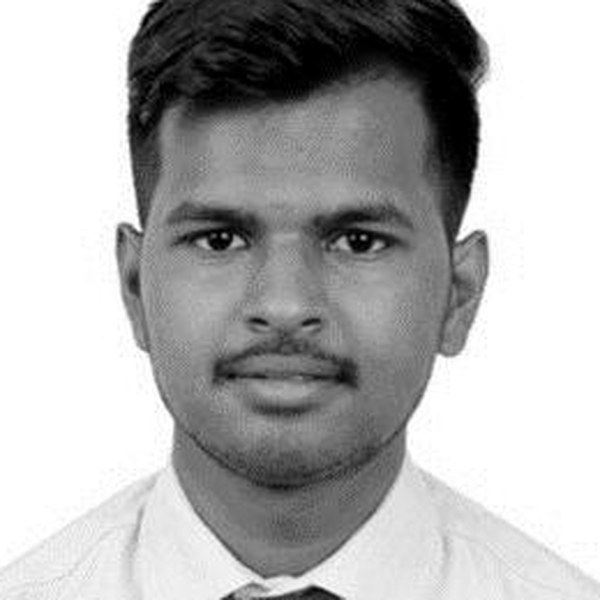
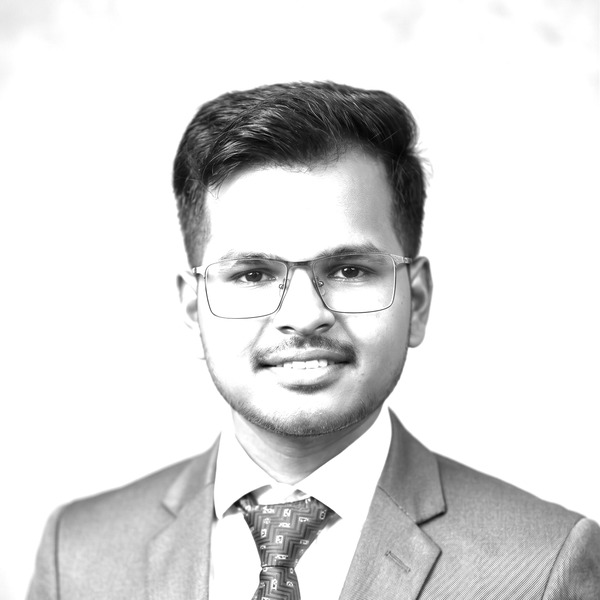
content(articles,team): home rotation + Rajat profile refresh
- Re-date articles so the home Insights grid shows one article each
  from Vijay Singh Rathore, Pravesh Goel, Ashish Gupta, Abhishek Gupta
  (top to bottom). Three Ashish articles shifted to 2026-05-20..22 so
  nothing leaks above slot 4.
- Rajat Singla: add shortBio + fullBio (forward-thinking CA, GST /
  Direct Tax / Controllership / Debt Sourcing). N C L S & Associates
  reference rewritten as Nucleus Advisors; US spellings normalised to
  UK to match site voice.
- Replace Rajat headshot — grayscaled, light-bg, square 600x600 to
  match Pravesh / Ashish partner-photo convention.

diff --git a/apps/web/src/content/articles.ts b/apps/web/src/content/articles.ts
@@ -1431,7 +1431,7 @@ export const articles: Article[] = [
       "The reframe: every item disclosed is a negotiation move. Time it deliberately, structure it by phase, and watch the buyer's behaviour change. Buyers who realise they're being managed through a structured disclosure usually respect the process. Buyers who don't realise it usually overpay relative to what they would have paid against an undisciplined seller. Either outcome is acceptable.",
     ].join('\n\n'),
     authorSlug: 'pravesh-goel',
-    publishedOn: '2026-05-17',
+    publishedOn: '2026-05-25',
     readMinutes: 10,
     tag: 'Deal mechanics',
     serviceSlugs: ['ma-advisory'],
@@ -2047,7 +2047,7 @@ export const articles: Article[] = [
       "The RBI's revised framework for NBFCs has raised the bar on what audit committees are expected to know. The gap between that expectation and what the current internal audit function is actually surfacing is where engagement starts. When we run an NBFC audit, the five areas above are where we begin, because in 13 years, they have never all been clean at once.",
     ].join('\n\n'),
     authorSlug: 'ashish-gupta',
-    publishedOn: '2026-05-25',
+    publishedOn: '2026-05-22',
     readMinutes: 9,
     tag: 'Internal audit & ICFR',
     serviceSlugs: ['risk-advisory'],
@@ -4034,7 +4034,7 @@ export const articles: Article[] = [
       "If your sector has inverted duty and you have ITC accumulated above ₹1 crore that has not been claimed, the time to start the file build is the month before the claim is filed, not the day before. The discipline pays for itself within the first claim cycle.",
     ].join('\n\n'),
     authorSlug: 'abhishek-gupta',
-    publishedOn: '2026-05-13',
+    publishedOn: '2026-05-23',
     readMinutes: 9,
     tag: 'GST',
     serviceSlugs: ['tax-regulatory'],
@@ -6077,7 +6077,7 @@ export const articles: Article[] = [
       "Both tactics work because both parties recognize that the asset is two assets, not one, and that the valuation has to acknowledge that structure.",
     ].join('\n\n'),
     authorSlug: 'vijay-singh-rathore',
-    publishedOn: '2026-05-17',
+    publishedOn: '2026-05-26',
     readMinutes: 11,
     tag: 'Valuation methods',
     serviceSlugs: ['valuations'],
@@ -9230,7 +9230,7 @@ export const articles: Article[] = [
       "The future internal auditor is unlikely to spend less time thinking. They are likely to spend less time collecting evidence and far more time interpreting what the evidence actually means.",
     ].join('\n\n'),
     authorSlug: 'ashish-gupta',
-    publishedOn: '2026-05-26',
+    publishedOn: '2026-05-24',
     readMinutes: 11,
     tag: 'Internal audit & ICFR',
     serviceSlugs: ['risk-advisory'],
@@ -9291,7 +9291,7 @@ export const articles: Article[] = [
       "The most important concurrent audit observation is often not the largest exception in the report. It is the small behavioural pattern that appears repeatedly across accounts, officers, or reporting cycles. That is usually where branch risk begins.",
     ].join('\n\n'),
     authorSlug: 'ashish-gupta',
-    publishedOn: '2026-05-23',
+    publishedOn: '2026-05-21',
     readMinutes: 11,
     tag: 'Sector risk',
     serviceSlugs: ['risk-advisory'],
@@ -9362,7 +9362,7 @@ export const articles: Article[] = [
       "Most NBFC operational failures do not occur because the organisation lacked policies. They occur because the actual branch behaviour slowly drifted away from those policies over time — and nobody independently tested the drift early enough.",
     ].join('\n\n'),
     authorSlug: 'ashish-gupta',
-    publishedOn: '2026-05-22',
+    publishedOn: '2026-05-20',
     readMinutes: 11,
     tag: 'Internal audit & ICFR',
     serviceSlugs: ['risk-advisory'],

diff --git a/apps/web/src/content/team.ts b/apps/web/src/content/team.ts
@@ -287,6 +287,12 @@ export const team: TeamMember[] = [
     expertise: ['GST', 'Direct Tax', 'Controllership', 'Debt Sourcing'],
     experienceYears: 3,
     qualifications: ['Chartered Accountant'],
+    shortBio:
+      'Leads GST, Direct Tax, Controllership and Debt Sourcing at Nucleus. GST advisory and litigation, tax assessments, MIS reporting, and working-capital / term-loan facilitation.',
+    fullBio: [
+      'Rajat Singla is a forward-thinking Chartered Accountant and Partner at Nucleus Advisors, leading the firm’s GST, Direct Tax, Controllership, and Debt Sourcing practice areas. He specialises in GST advisory, litigation, refunds, compliance management, departmental representations, and resolution of GST notices, while also providing strategic guidance in Income Tax, TDS, tax audits, assessments, and regulatory compliance for businesses and individuals.',
+      'With a strong focus on practical and result-oriented solutions, Rajat also advises clients on financial controllership, MIS reporting, process optimisation, and business financial management. In addition, he assists businesses in debt sourcing, including working capital and term loan facilitation, helping clients achieve financial stability and growth. Known for his analytical approach and client-centric mindset, he is committed to delivering reliable, efficient, and value-driven professional services.',
+    ].join('\n\n'),
     serviceSlugs: ['tax-regulatory', 'finance-outsourcing'],
     linkedinUrl: 'https://www.linkedin.com/in/ca-rajat-singla-3374b61a6/',
     email: 'rajat@nucleusadvisors.in',
